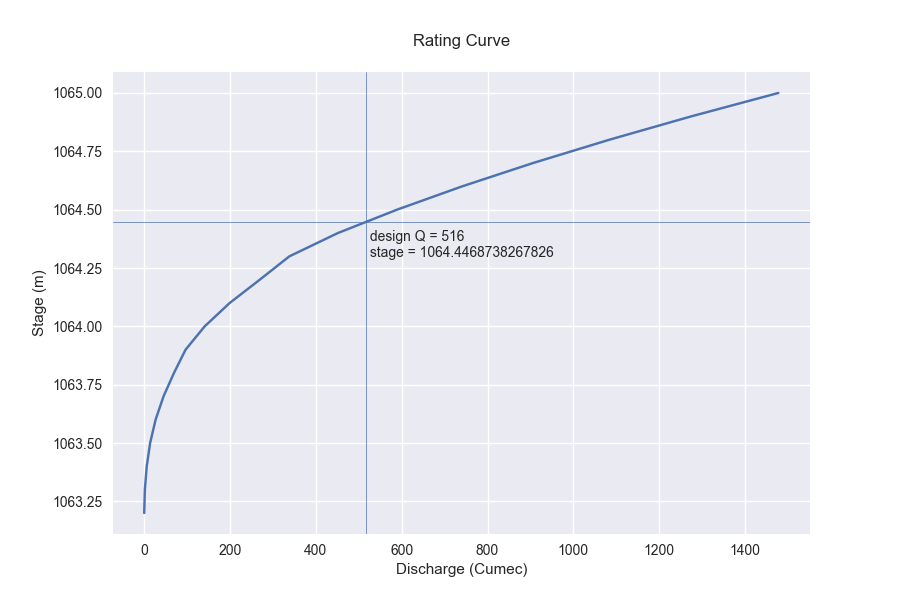
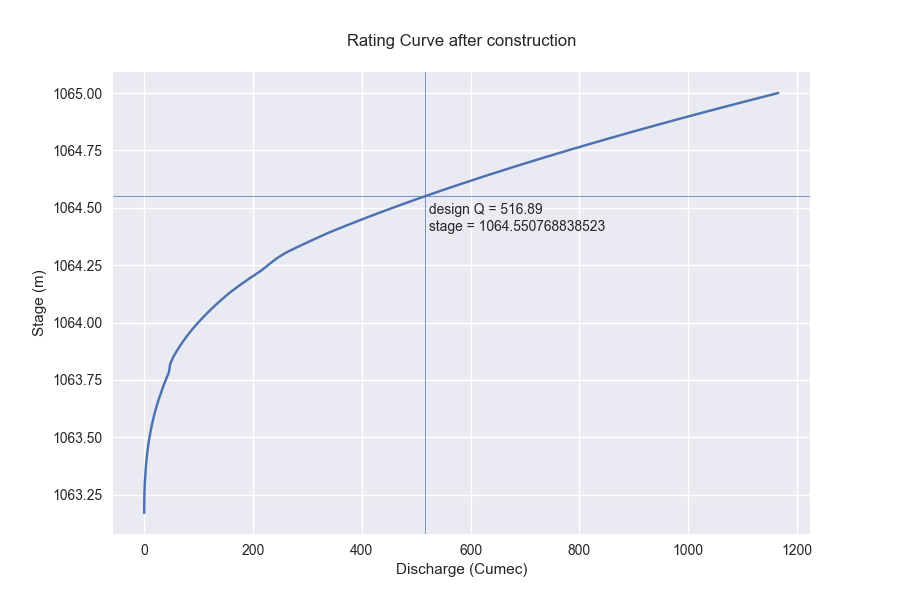
rating curve fix
area under datum fixed

diff --git a/rating_curve.py b/rating_curve.py
@@ -3,7 +3,6 @@ import math
 import matplotlib.pyplot as plt
 import pandas as pd
 
-
 plt.style.use('seaborn')
 # plt.ioff()
 
@@ -16,146 +15,210 @@ with open('data/cross.csv') as csv_file:
         original_coordinates.append((float(row[0]), float(row[1])))
 
 
-def transform(ref, coordinates, lim=200):
-    transformed = []
-    for _index, i in enumerate(coordinates):
-        if i[0] < ref - lim / 2:
-            transformed.append((i[0], i[1] + 50))
-            if coordinates[_index + 1][0] > ref - lim / 2:
-                _y = interpolate_y(i, coordinates[_index + 1], ref - lim / 2)
-                transformed.append((ref - lim / 2 - 0.00000001, _y + 50))
-                transformed.append((ref - lim / 2, _y))
-        elif ref - lim / 2 < i[0] < ref + lim / 2:
-            transformed.append(i)
-        elif i[0] > ref + lim / 2:
-            if coordinates[_index - 1][0] < ref + lim / 2:
-                _y = interpolate_y(i, coordinates[_index - 1], ref + lim / 2)
-                transformed.append((ref + lim / 2, _y))
-                transformed.append((ref + lim / 2 + 0.00000001, _y + 50))
-            transformed.append((i[0], i[1] + 50))
-    return transformed
-
-
 def interpolate_x(p1, p2, h):
     return p1[0] + (h - p1[1]) * ((p2[0] - p1[0]) / (p2[1] - p1[1]))
 
 
-def interpolate_y(p1, p2, _x):
-    return p1[1] + (_x - p1[0]) * ((p2[1] - p1[1]) / (p2[0] - p1[0]))
+def interpolate_y(p1, p2, x):
+    return p1[1] + (x - p1[0]) * ((p2[1] - p1[1]) / (p2[0] - p1[0]))
+
+
+def transform(ref, coordinates, lim=200.00):
+    transformed = []
+    for index in range(len(coordinates)):
+        if coordinates[index][0] < ref - lim / 2:
+            transformed.append((coordinates[index][0], coordinates[index][1] + 50))
+            if coordinates[index + 1][0] > ref - lim / 2:
+                y = interpolate_y(coordinates[index], coordinates[index + 1], ref - lim / 2)
+                transformed.append((ref - lim / 2 - 0.00000001, y + 50))
+                transformed.append((ref - lim / 2, y))
+        elif ref - lim / 2 < coordinates[index][0] < ref + lim / 2:
+            transformed.append(coordinates[index])
+        elif coordinates[index][0] > ref + lim / 2:
+            if coordinates[index - 1][0] < ref + lim / 2:
+                y = interpolate_y(coordinates[index], coordinates[index - 1], ref + lim / 2)
+                transformed.append((ref + lim / 2, y))
+                transformed.append((ref + lim / 2 + 0.00000001, y + 50))
+            transformed.append((coordinates[index][0], coordinates[index][1] + 50))
+    return transformed
 
 
 ref_point = -15
-span_limit = 100
-new_coordinates = transform(ref_point, original_coordinates, lim=200)
+bridge_length = 247.5  # tweak
+new_coordinates = transform(ref_point, original_coordinates, lim=bridge_length)
+
+s = 0.019573923  # input
 
 
-for g in range(2):
-    if g==0:
-        pairs=original_coordinates
-    else:
-        pairs=new_coordinates
-    x = [i[0] for i in pairs]
-    y = [i[1] for i in pairs]
-    datum = 1065
-    min_rl = min(y)
+def rating_curve(upper_limit, coord, slope, step=0.01):
+    """Gets rating curve for given cross section.
+
+    Parameters
+    ----------
+    upper_limit : float
+        upper limit of stage
+    coord : list
+        List of (x,y) pairs of cross section in ascending order of x
+    slope : float
+        longitudinal slope of river channel
+    step : float (default 0.01)
+        step
+    Returns
+    -------
+    dict
+        dictionary containing list of discharge, list of linearWW, list of area for respective list of stage
+        for given cross section
+    """
+
     stage = []
     discharge = []
     linearWW = []
-    totalarea=0
+    totalarea = []
 
-    while datum >= min_rl:
+    min_rl = min([i[1] for i in coord])
+    while upper_limit >= min_rl:
         area = 0
         perimeter = 0
         breadth = 0
-        for index, pair in enumerate(pairs):
-            if pair[1] <= datum:
+        for index, pair in enumerate(coord):
+            if pair[1] <= upper_limit:
                 previous = index - 1 if index - 1 > 0 else 0
-                if pairs[previous][1] > datum:
-                    _x = interpolate_x(pairs[previous], pair, datum)
+                if coord[previous][1] > upper_limit:
+                    _x = interpolate_x(coord[previous], pair, upper_limit)
                     del_x = pair[0] - _x
-                    del_y0 = datum - pair[1]
+                    del_y0 = upper_limit - pair[1]
                     del_y1 = 0
                 else:
-                    del_x = pair[0] - pairs[previous][0]
-                    del_y0 = datum - pair[1]
-                    del_y1 = datum - pairs[previous][1]
+                    del_x = pair[0] - coord[previous][0]
+                    del_y0 = upper_limit - pair[1]
+                    del_y1 = upper_limit - coord[previous][1]
 
                 del_y = del_y0 - del_y1
                 perimeter += math.sqrt(del_y ** 2 + del_x ** 2)
                 area += (del_y0 + del_y1) / 2 * del_x
                 breadth += del_x
                 # try:
-                if pairs[index + 1][1] > datum:
-                    _x = interpolate_x(pair, pairs[index + 1], datum)
+                if coord[index + 1][1] > upper_limit:
+                    _x = interpolate_x(pair, coord[index + 1], upper_limit)
                     del_x = _x - pair[0]
                     del_y0 = 0
-                    del_y1 = datum - pair[1]
+                    del_y1 = upper_limit - pair[1]
                     del_y = del_y0 - del_y1
                     perimeter += math.sqrt(del_y ** 2 + del_x ** 2)
                     area += (del_y0 + del_y1) / 2 * del_x
                     breadth += del_x
                 # except:
                 #     continue
-        totalarea+=area
+        totalarea.append(area)
         r = area / perimeter
-        s = 0.03957
-        q = 1 / 0.035 * area * pow(r, 2 / 3) * pow(s, 1 / 2)
-        stage.append(datum)
+        q = 1 / 0.035 * area * pow(r, 2 / 3) * pow(slope, 1 / 2)
+        stage.append(upper_limit)
         discharge.append(q)
         linearWW.append(breadth)
-        datum -= 0.1
+        upper_limit -= step
+    return {
+        'Stage': stage,
+        'Discharge': discharge,
+        'linearWW': linearWW,
+        'Area': totalarea
+    }
 
-    designQ = 516.89  # input design discharge
-    p1 = 0
-    q1 = 0
-    pb = 0
-    qb = 0
-    for index, q in enumerate(discharge):
-        if designQ > q:
-            p1 = (stage[index - 1], discharge[index - 1])
-            q1 = (stage[index], q)
-            pb = (linearWW[index - 1], discharge[index - 1])
-            qb = (linearWW[index], q)
+
+prop_before = rating_curve(1065, original_coordinates, s)
+prop_after = rating_curve(1065, new_coordinates, s)
+
+designQ = 516.89  # input design discharge
+
+
+def findProp(target_discharge, list_Q, list_stage, list_linearww, list_area):
+    """
+    finds stage, linearww, area for given list of disharges and list of stages:
+
+    Args:
+    designQ: design Q (float)
+    list_Q: (list)
+    list_stage (list)
+    list_linearww (list)
+    list_area (list)
+    """
+    st1 = None
+    st2 = None
+    lww1 = None
+    lww2 = None
+    ar1 = None
+    ar2 = None
+    for index in range(len(list_Q)):
+        if target_discharge > list_Q[index]:
+            st1 = (list_stage[index - 1], list_Q[index - 1])
+            st2 = (list_stage[index], list_Q[index])
+            lww1 = (list_linearww[index - 1], list_Q[index - 1])
+            lww2 = (list_linearww[index], list_Q[index])
+            ar1 = (list_area[index - 1], list_Q[index - 1])
+            ar2 = (list_area[index], list_Q[index])
+
+            st = interpolate_x(st1, st2, target_discharge)
+            lww = interpolate_x(lww1, lww2, target_discharge)
+            ar = interpolate_x(ar1, ar2, target_discharge)
             break
-    if pairs == new_coordinates:
-        st_new = interpolate_x(p1, q1, designQ)
-        lww_new = interpolate_x(pb, qb, designQ)
-    else:
-        st=interpolate_x(p1, q1, designQ)
-        lww=interpolate_x(pb, qb, designQ)
+    return st, lww, ar
+
+
+hfl_before, linearww_before, area_before = findProp(
+    designQ,
+    prop_before['Discharge'],
+    prop_before['Stage'],
+    prop_before['linearWW'],
+    prop_before['Area']
+)
+
+hfl_after, linearww_after, area_after = findProp(
+    designQ,
+    prop_after['Discharge'],
+    prop_after['Stage'],
+    prop_after['linearWW'],
+    prop_after['Area']
+)
 
 plt.rcParams['figure.figsize'] = (9, 6)
 
 fig1, ax1 = plt.subplots()
-fig2, ax2 = plt.subplots()
+# fig2, ax2 = plt.subplots()
 
-ax1.plot(discharge, stage)
+ax1.plot(prop_after['Discharge'], prop_after['Stage'])
 ax1.set_xlabel('Discharge (Cumec)')
 ax1.set_ylabel('Stage (m)')
-ax1.set_title('Rating Curve\n')
-ax1.axhline(y=st, linewidth=0.5)
+ax1.set_title('Rating Curve after construction\n')
+ax1.axhline(y=hfl_after, linewidth=0.5)
 ax1.axvline(x=designQ, linewidth=0.5)
-ax1.text(designQ, st - 0.15, f' design Q = {designQ}\n stage = {st}')
+ax1.text(designQ, hfl_after - 0.15, f' design Q = {designQ}\n stage = {hfl_after}')
 
-ax2.plot(x, y)
-ax2.set_ylim([1062, 1070])
-ax2.set_xlim([ref_point - span_limit / 2 - 10, ref_point + span_limit / 2 + 10])
-ax2.set_xlabel('x (Cumec)')
-ax2.set_ylabel('RL (m)')
-ax2.set_title('Cross Section\n')
-ax2.axhline(y=st, linewidth=0.5, label=f'Design Flood Level @ {round(st, 4)}m', color='grey')
-# ax2.axvline(x=designQ, linewidth=0.5)
-ax2.text(-40, st, f' Linear Waterway Width {round(lww, 4)}m\n', horizontalalignment='center')
-plt.legend()
-plt.tight_layout()
+# ax2.plot(x, y)
+# ax2.set_ylim([1062, 1070])
+# ax2.set_xlim([ref_point - span_limit / 2 - 10, ref_point + span_limit / 2 + 10])
+# ax2.set_xlabel('x (Cumec)')
+# ax2.set_ylabel('RL (m)')
+# ax2.set_title('Cross Section\n')
+# ax2.axhline(y=hfl, linewidth=0.5, label=f'Design Flood Level @ {round(hfl, 4)}m', color='grey')
+# # ax2.axvline(x=designQ, linewidth=0.5)
+# ax2.text(-40, hfl, f' Linear Waterway Width {round(lww, 4)}m\n', horizontalalignment='center')
+# plt.legend()
+# plt.tight_layout()
 
-# fig1.savefig('outputs/rating_curve.png')
+fig1.savefig('outputs/rating_curve.png')
 # fig2.savefig('outputs/cross_section.png')
 
 #
 # x = [i[0] for i in pairs]
 # y = [i[1] for i in pairs]
 # plt.plot(x, y)
-# plt.show()
+# # plt.show()
 
-(pd.DataFrame([st,lww,st_new,lww_new,totalarea],columns=['Values'],index=['HFL','Linear Waterway','HFL after construction','LWW after construction','Cross Section Area']).T).to_csv('outputs/Linear_WW.csv',encoding='utf-8')
+df = pd.DataFrame([[hfl_before, linearww_before, area_before, hfl_after, linearww_after, area_after]],
+                  columns=('HFL_before',
+                           'LWW_before',
+                           'Area_before',
+                           'HFL_after',
+                           'LWW_after',
+                           'Area_after'))
+
+df.to_csv('outputs/Linear_WW.csv')
